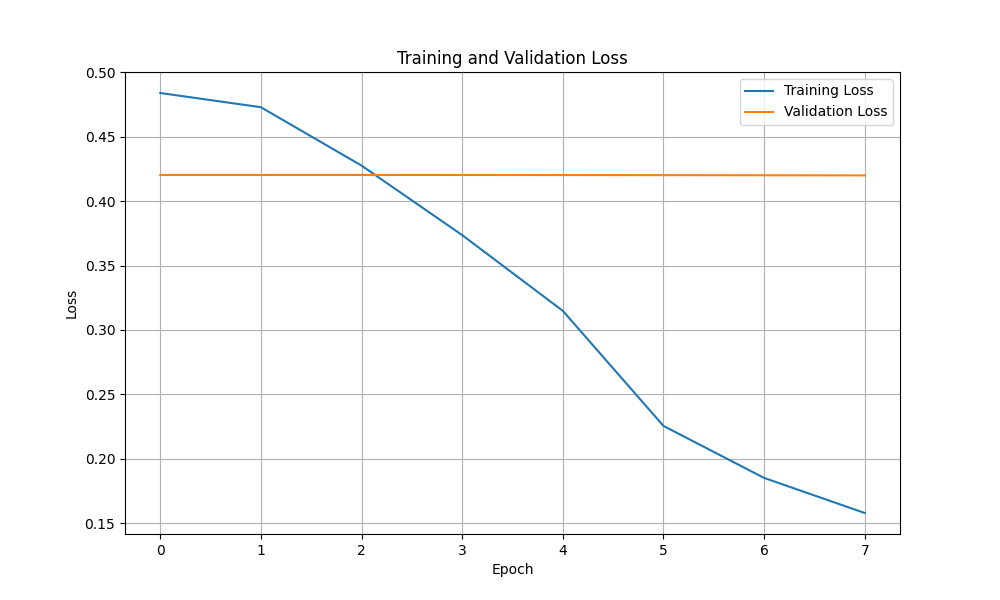
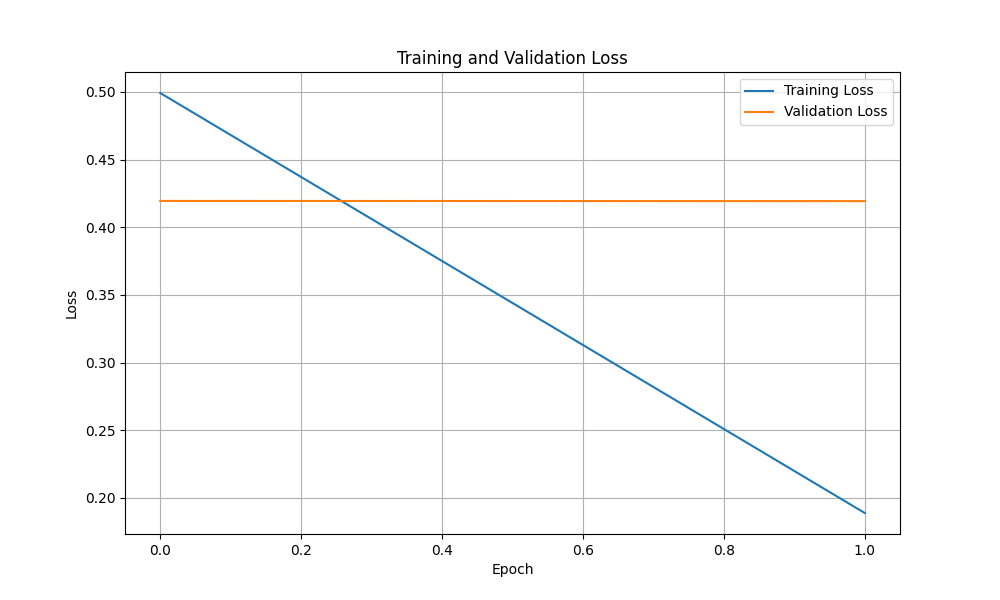
Enhance training process with checkpointing and TensorBoard logging; update argument parser for new options

diff --git a/lstm.py b/lstm.py
@@ -3,6 +3,7 @@ import numpy as np
 import torch
 import torch.nn as nn
 import torch.optim as optim
+import os
 from torch.utils.data import Dataset, DataLoader
 from sklearn.model_selection import train_test_split
 from tqdm import tqdm
@@ -11,8 +12,6 @@ import matplotlib.pyplot as plt
 import random
 from torch.nn import functional as F
 from viz import plot_climb_sequence, plot_sequence_cycle, plot_reachability_map, plot_hold_density
-from torch.utils.tensorboard import SummaryWriter
-import os
 
 class ClimbDataset(Dataset):
     def __init__(self, json_file, max_sequence_length=50, vocab_path=None):
@@ -352,7 +351,7 @@ class ClimbGenerator:
             print(f"Error loading model: {e}")
             return False
 
-    def train(self, num_epochs=30, batch_size=32, learning_rate=0.001, save_path='lstm_model.pth', checkpoint_dir=None, checkpoint_freq=5, log_dir=None):
+    def train(self, num_epochs=30, batch_size=32, learning_rate=0.001, save_path='lstm_model.pth', checkpoint_dir=None, checkpoint_freq=5, tb_logdir=None):
         train_data, val_data = train_test_split(self.dataset, test_size=0.2, random_state=42, shuffle=True)
         
         #Set up data loaders
@@ -384,24 +383,27 @@ class ClimbGenerator:
         
         early_stopping = EarlyStopping(patience=7, restore_best_weights=True)
 
-        # Setup TensorBoard SummaryWriter if requested
+        # Setup checkpointing and TensorBoard
         writer = None
-        if log_dir:
-            os.makedirs(log_dir, exist_ok=True)
-            writer = SummaryWriter(log_dir)
+        if tb_logdir:
+            try:
+                from torch.utils.tensorboard import SummaryWriter
+                writer = SummaryWriter(tb_logdir)
+                print(f"TensorBoard logging to: {tb_logdir}")
+            except Exception as e:
+                print(f"Warning: failed to initialize TensorBoard writer: {e}")
 
-        # Ensure checkpoint directory exists
         if checkpoint_dir:
             os.makedirs(checkpoint_dir, exist_ok=True)
         
         #Training loop
         train_losses, val_losses = [], []
         
-            for epoch in range(1, num_epochs + 1):
+        for epoch in range(num_epochs):
             self.model.train()
             epoch_loss = 0
             
-                progress_bar = tqdm(train_loader, desc=f"Epoch {epoch}/{num_epochs}")
+            progress_bar = tqdm(train_loader, desc=f"Epoch {epoch+1}/{num_epochs}")
             for inputs, targets in progress_bar:
                 inputs, targets = inputs.to(device), targets.to(device)
                 
@@ -426,35 +428,64 @@ class ClimbGenerator:
             
             #validation
             val_loss = self._evaluate(val_loader, criterion, device)
-
-            # TensorBoard logging
-            if writer is not None:
-                writer.add_scalar('train/loss', epoch_loss / max(1, len(train_loader)), epoch)
-                writer.add_scalar('val/loss', val_loss / max(1, len(val_loader)), epoch)
             
             #Log metrics
-            avg_train_loss = epoch_loss / max(1, len(train_loader))
-            avg_val_loss = val_loss / max(1, len(val_loader))
+            avg_train_loss = epoch_loss / len(train_loader)
+            avg_val_loss = val_loss / len(val_loader)
             train_losses.append(avg_train_loss)
             val_losses.append(avg_val_loss)
             
-            print(f"Epoch {epoch}: Train Loss={avg_train_loss:.4f}, Val Loss={avg_val_loss:.4f}")
-            
+            print(f"Epoch {epoch+1}: Train Loss={avg_train_loss:.4f}, Val Loss={avg_val_loss:.4f}")
+
+            # TensorBoard logging
+            if writer:
+                try:
+                    writer.add_scalar('loss/train', avg_train_loss, epoch + 1)
+                    writer.add_scalar('loss/val', avg_val_loss, epoch + 1)
+                    # log learning rate
+                    try:
+                        lr = scheduler.get_last_lr()[0]
+                    except Exception:
+                        lr = optimizer.param_groups[0]['lr']
+                    writer.add_scalar('learning_rate', lr, epoch + 1)
+                except Exception as e:
+                    print(f"Warning: TensorBoard write failed: {e}")
+
+            # Periodic checkpointing
+            if checkpoint_dir and ((epoch + 1) % checkpoint_freq == 0):
+                chk_path = os.path.join(checkpoint_dir, f'checkpoint_epoch_{epoch+1}.pth')
+                try:
+                    torch.save({
+                        'epoch': epoch + 1,
+                        'model_state': self.model.state_dict(),
+                        'optimizer_state': optimizer.state_dict(),
+                        'scheduler_state': scheduler.state_dict(),
+                        'val_loss': avg_val_loss
+                    }, chk_path)
+                    print(f"Saved checkpoint: {chk_path}")
+                except Exception as e:
+                    print(f"Warning: failed to save checkpoint: {e}")
+
             #Check for early stopping
             if early_stopping(avg_val_loss, self.model):
-                print(f"Early stopping triggered at epoch {epoch}")
+                print(f"Early stopping triggered at epoch {epoch+1}")
+                # save best weights as checkpoint
+                if checkpoint_dir:
+                    best_path = os.path.join(checkpoint_dir, 'checkpoint_best.pth')
+                    try:
+                        torch.save({
+                            'epoch': epoch + 1,
+                            'model_state': early_stopping.best_weights,
+                            'optimizer_state': optimizer.state_dict(),
+                            'scheduler_state': scheduler.state_dict(),
+                            'val_loss': early_stopping.best_loss
+                        }, best_path)
+                        print(f"Saved best checkpoint: {best_path}")
+                    except Exception as e:
+                        print(f"Warning: failed to save best checkpoint: {e}")
+
                 early_stopping.restore_weights(self.model)
                 break
-
-            # Checkpointing: save intermediate model and vocab
-            if checkpoint_dir and (epoch % checkpoint_freq == 0):
-                ckpt_path = os.path.join(checkpoint_dir, f"checkpoint_epoch{epoch}.pth")
-                torch.save({'epoch': epoch, 'model_state_dict': self.model.state_dict(), 'optimizer_state_dict': optimizer.state_dict()}, ckpt_path)
-                try:
-                    vocab_path = os.path.join(checkpoint_dir, f"vocab_epoch{epoch}.json")
-                    self.dataset.save_vocab(vocab_path)
-                except Exception:
-                    pass
             
             #Generate a sample sequence every 5 epochs
             if (epoch + 1) % 5 == 0:
@@ -467,6 +498,28 @@ class ClimbGenerator:
         #Save the model
         torch.save(self.model.state_dict(), save_path)
         print(f"Model saved to {save_path}")
+
+        # Save a final checkpoint
+        if checkpoint_dir:
+            final_path = os.path.join(checkpoint_dir, 'checkpoint_final.pth')
+            try:
+                torch.save({
+                    'epoch': epoch + 1,
+                    'model_state': self.model.state_dict(),
+                    'optimizer_state': optimizer.state_dict(),
+                    'scheduler_state': scheduler.state_dict(),
+                    'val_loss': val_losses[-1] if val_losses else None
+                }, final_path)
+                print(f"Saved final checkpoint: {final_path}")
+            except Exception as e:
+                print(f"Warning: failed to save final checkpoint: {e}")
+
+        # Close TensorBoard writer
+        if writer:
+            try:
+                writer.close()
+            except Exception:
+                pass
         
         #Plot training history
         self._plot_training_history(train_losses, val_losses)

diff --git a/lstm_main.py b/lstm_main.py
@@ -58,17 +58,17 @@ def setup_parser():
     )
     train_parser.add_argument(
         "--checkpoint-dir",
-        help="Directory to write intermediate checkpoints",
+        help="Directory to save checkpoints (optional)",
     )
     train_parser.add_argument(
         "--checkpoint-freq",
         type=int,
         default=5,
-        help="Save checkpoint every N epochs",
+        help="Save a checkpoint every N epochs",
     )
     train_parser.add_argument(
-        "--logdir",
-        help="TensorBoard log directory",
+        "--tb-logdir",
+        help="TensorBoard log directory (optional)",
     )
     
 
@@ -184,7 +184,7 @@ def train_model(args):
         save_path=args.output,
         checkpoint_dir=args.checkpoint_dir,
         checkpoint_freq=args.checkpoint_freq,
-        log_dir=args.logdir
+        tb_logdir=args.tb_logdir
     )
     
     print(f"Training complete. Model saved to {args.output}")
